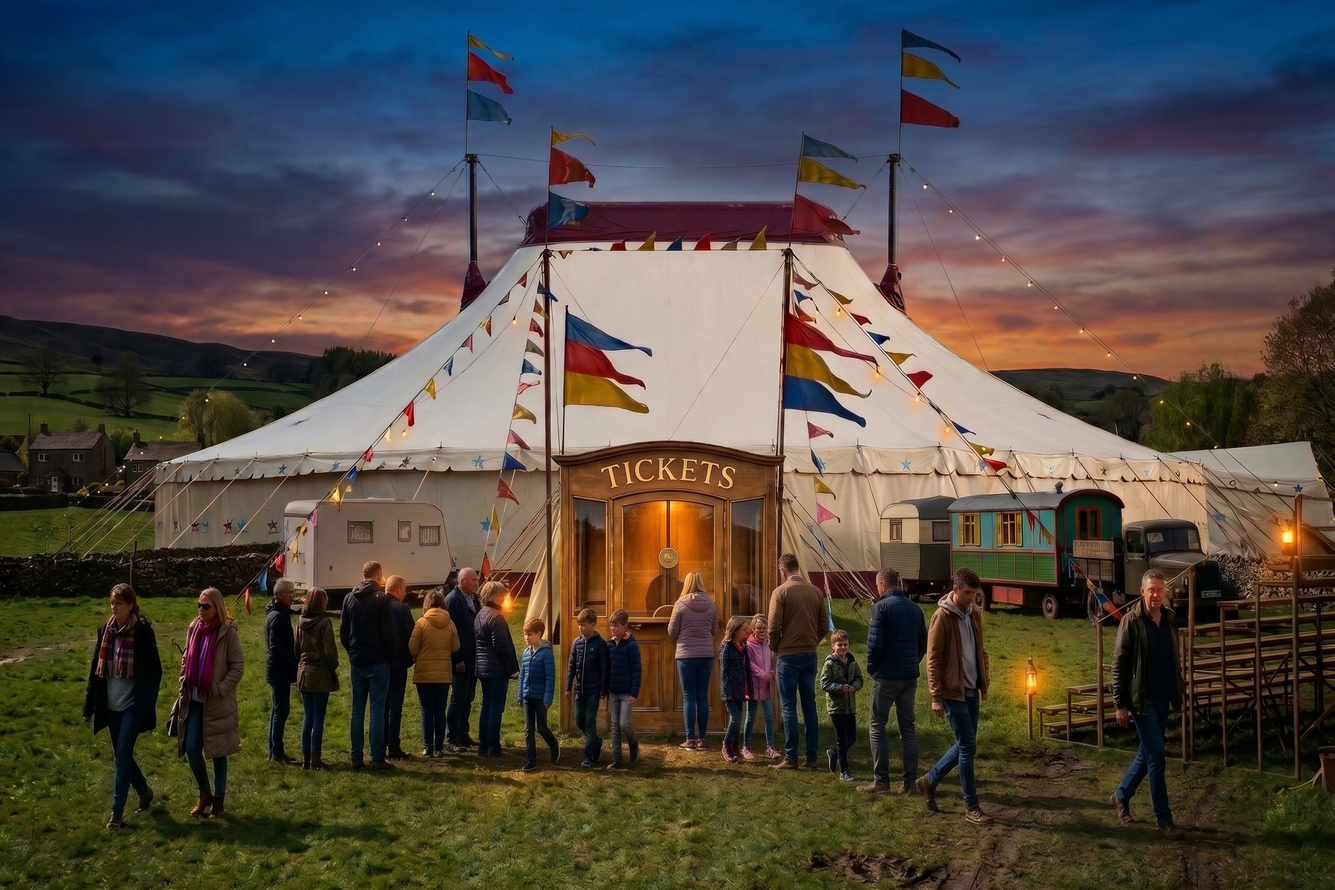
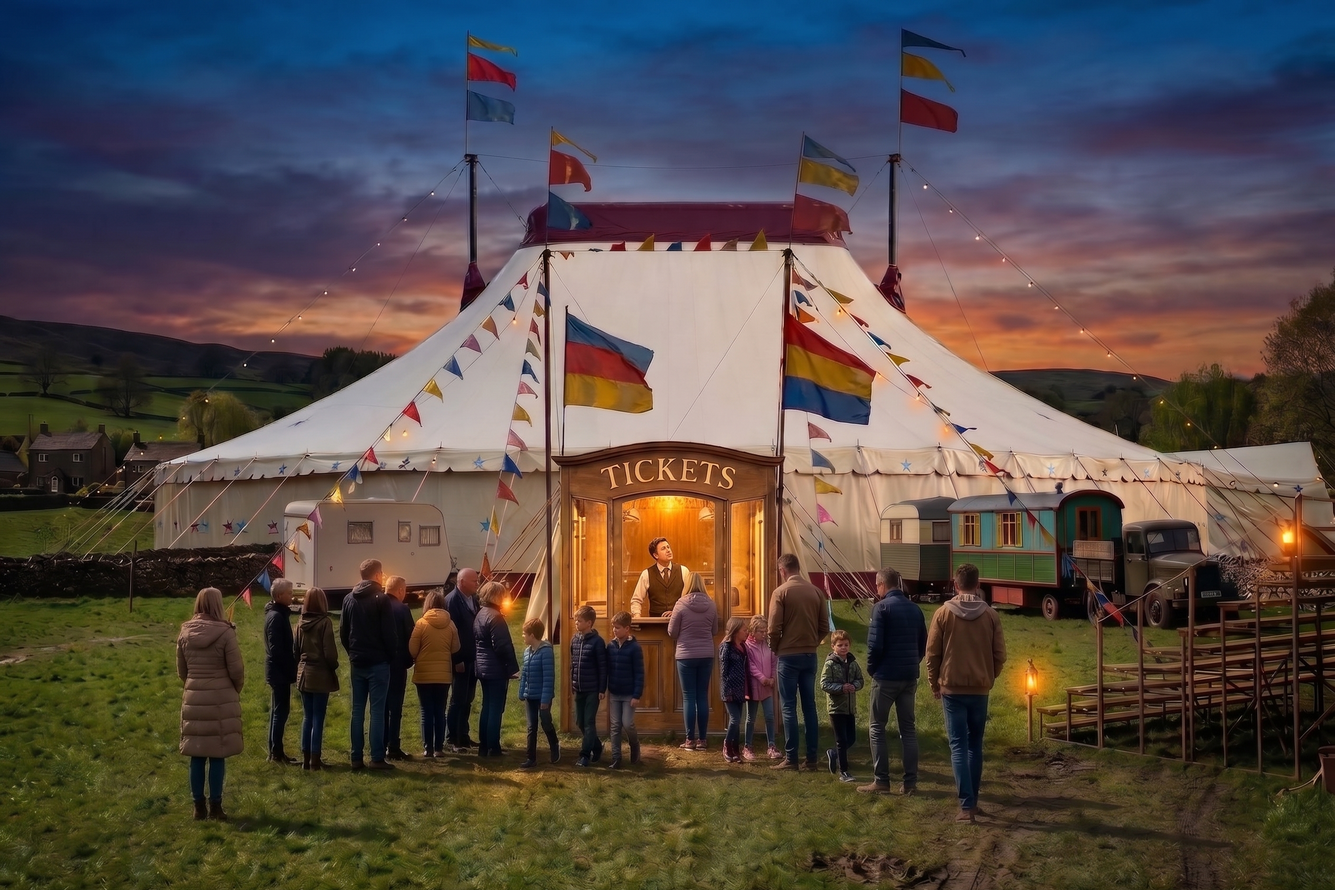
Update circus tent photo with ticket seller and queue facing tent

diff --git a/index.html b/index.html
@@ -202,7 +202,7 @@
 
       <!-- Photo 4: Traveling Circus Tent (Cinematic Twilight) -->
       <div class="world-item">
-        <img src="images/circus_tent.jpg" alt="Traveling Circus Tent at Twilight" class="world-img">
+        <img src="images/circus_tent.jpg?v=2" alt="Traveling Circus Tent at Twilight" class="world-img">
       </div>
     </div>
 
